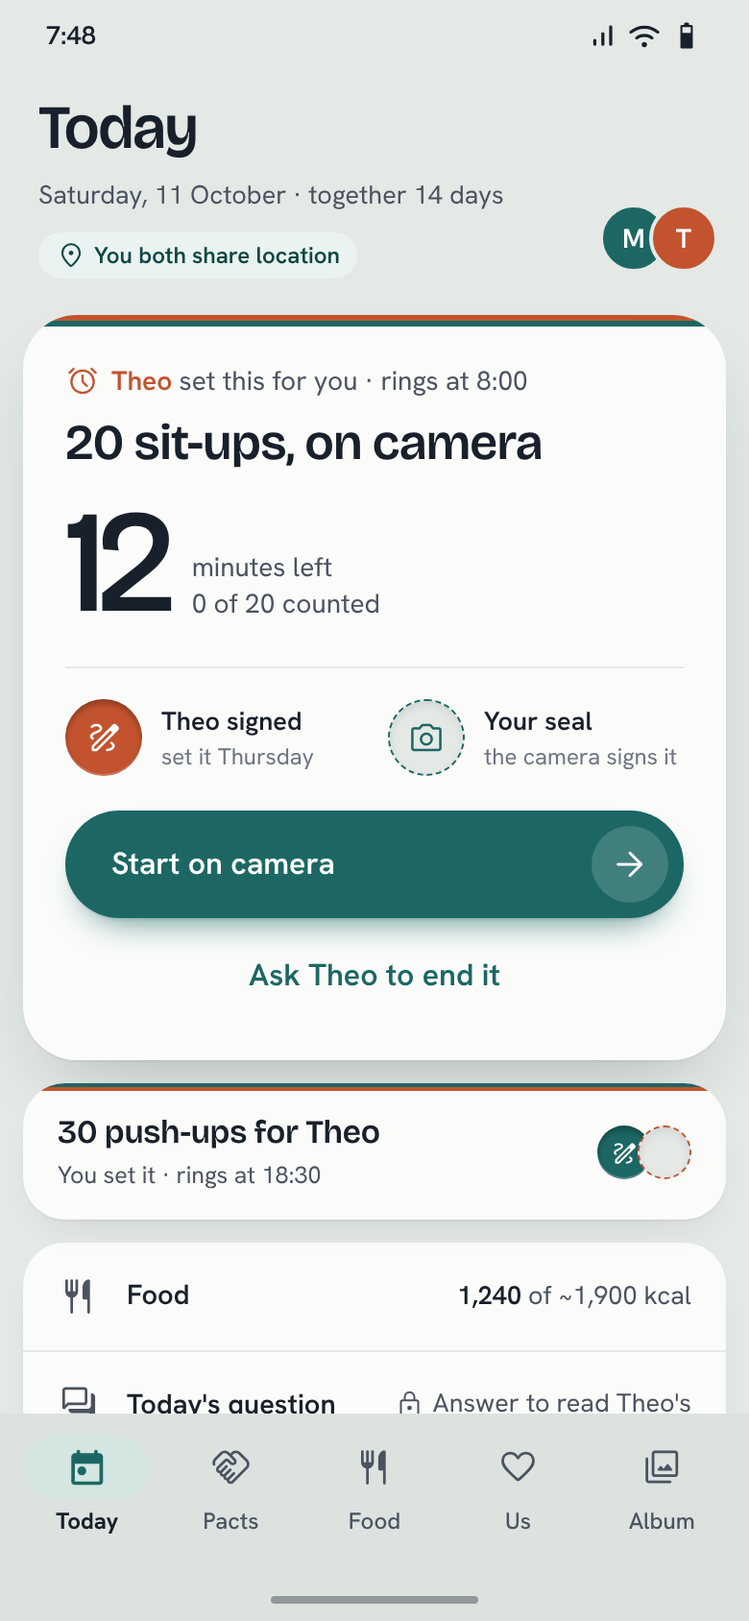
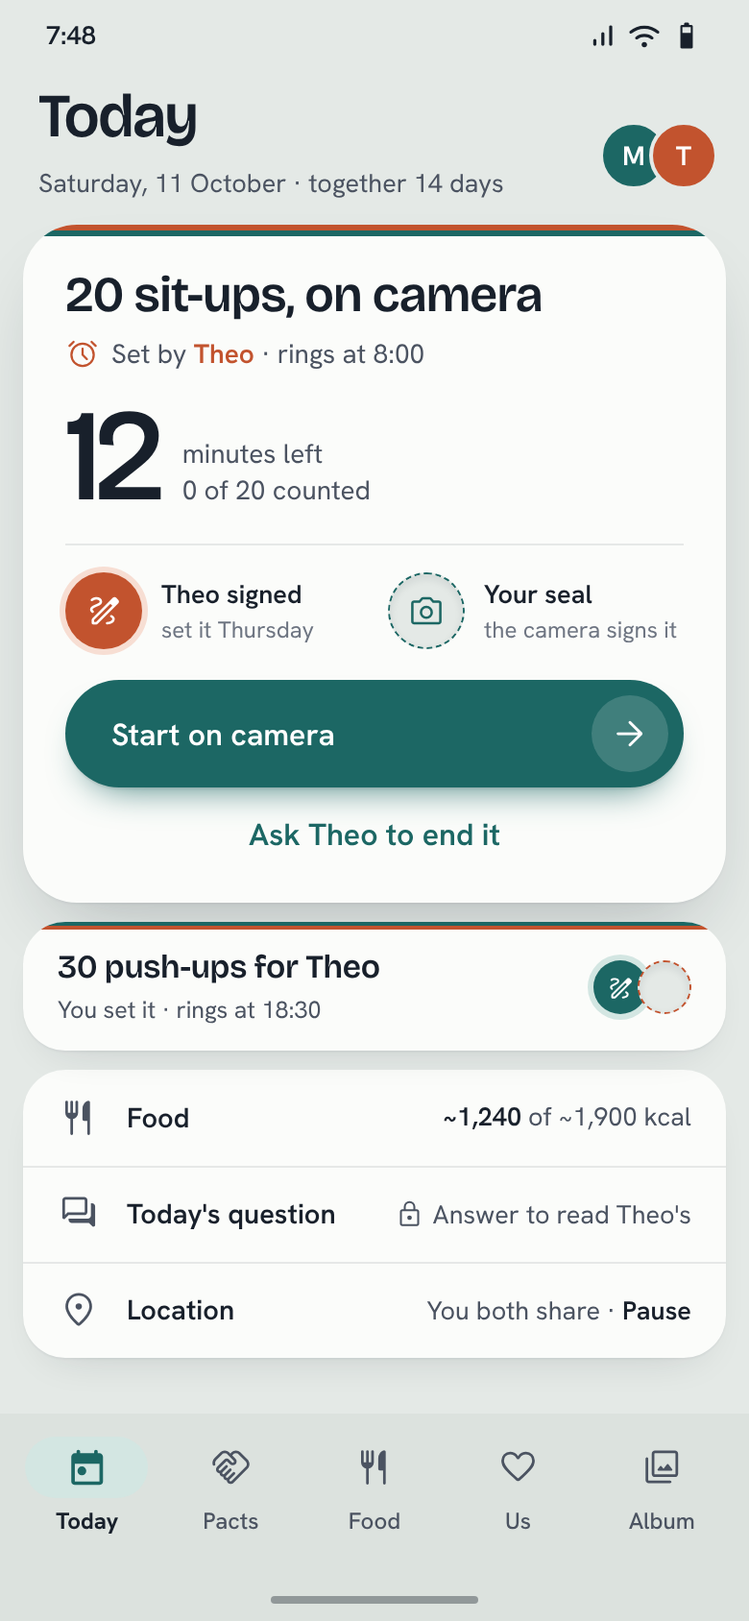
Apply the finish review's fixes to the Heartpact screens
Today fits the whole day above the nav again (location back as a row,
measured), pact labels moved below their titles, the alarm keeps the
duplex pact card, one day-per-mark history strip with one state
language (solid sealed, hollow missed, struck ended, dashed scheduled)
on Pacts and Sealed, cycle drawn in Maya's own stock, calorie totals
marked as estimates, flat seals with a tonal ring plus a press-motion
frame, looser display tracking, and the persimmon value recorded with
its contrast reason in the direction contract.

Claude-Session: https://claude.ai/code/session_01JQgGJKj4npsEDXdNrsNSqP

Changed region(s): [[0.0308, 0.0616, 0.9846, 0.8934]]

diff --git a/design/heartpact-v2/screens/09-pacts.html b/design/heartpact-v2/screens/09-pacts.html
@@ -3,30 +3,25 @@
   <div class="largebar"><div><div class="headline-l">Pacts</div><div class="sub">What you've promised each other</div></div></div>
   <div style="padding:0 12px"><div class="seg"><div class="on"><span class="ms s18">check</span>For you</div><div>You set</div></div></div>
   <div class="pact by-theo" style="margin:14px 12px 0"><div class="in" style="padding:20px 20px 18px">
-    <div style="display:flex;justify-content:space-between;align-items:flex-start"><div><div class="title-l">20 sit-ups</div><div class="body-s muted" style="margin-top:3px">Daily at 8:00 · set by Theo · 30 min ring</div></div><span class="tag maya">Sealed today</span></div>
-    <div style="display:flex;justify-content:space-between;align-items:flex-end;margin-top:18px;height:34px;border-bottom:1px solid var(--rule)">
-      <i style="--h:28px"></i><i style="--h:28px"></i><i class="x"></i><i style="--h:28px"></i><i style="--h:28px"></i><i class="m"></i><i style="--h:28px"></i><i style="--h:28px"></i><i style="--h:28px"></i><i style="--h:28px"></i><i style="--h:28px"></i><i style="--h:28px"></i><i style="--h:28px"></i><i style="--h:28px" class="now"></i>
+    <div style="display:flex;justify-content:space-between;align-items:flex-start"><div><div class="title-l">20 sit-ups</div><div class="body-s muted" style="margin-top:3px">Daily at 8:00 · set by Theo · rings up to 30 min</div></div><span class="tag maya">Sealed today</span></div>
+    <div class="days" style="margin-top:18px">
+      <i class="sealed"></i><i class="sealed"></i><i class="sealed"></i><i class="missed"></i><i class="sealed"></i><i class="ended"></i><i class="sealed"></i><i class="sealed"></i><i class="sealed"></i><i class="sealed"></i><i class="sealed"></i><i class="sealed"></i><i class="sealed today"></i><i class="planned"></i>
     </div>
-    <div style="display:flex;justify-content:space-between;margin-top:6px" class="body-s faint"><span>28 Sep</span><span>Today</span></div>
+    <div style="display:flex;justify-content:space-between;margin-top:6px" class="body-s faint"><span>29 Sep</span><span>Today</span><span>12 Oct</span></div>
   </div></div>
   <div class="pact slim by-theo" style="margin:12px 12px 0"><div class="in">
     <div style="display:flex;justify-content:space-between;align-items:flex-start"><div><div class="title-l" style="font-size:17px">Plank, 60 seconds</div><div class="body-s muted" style="margin-top:3px">Sundays at 9:30 · set by Theo</div></div><span class="tag">Tomorrow</span></div>
-    <div style="display:flex;justify-content:space-between;align-items:flex-end;margin-top:14px;height:34px;border-bottom:1px solid var(--rule)">
-      <i style="--h:28px"></i><i class="m"></i><i style="--h:28px"></i><i style="--h:28px"></i><i class="p"></i>
+    <div class="days" style="margin-top:14px">
+      <i class="off"></i><i class="off"></i><i class="off"></i><i class="off"></i><i class="off"></i><i class="off"></i><i class="sealed"></i><i class="off"></i><i class="off"></i><i class="off"></i><i class="off"></i><i class="off"></i><i class="off"></i><i class="planned"></i>
     </div>
-    <div style="display:flex;justify-content:space-between;margin-top:6px" class="body-s faint"><span>14 Sep</span><span>12 Oct</span></div>
+    <div style="display:flex;justify-content:space-between;margin-top:6px" class="body-s faint"><span>29 Sep</span><span>Today</span><span>12 Oct</span></div>
   </div></div>
-  <div style="display:flex;gap:16px;padding:14px 22px 0" class="body-s muted">
-    <span style="display:flex;align-items:center;gap:6px"><b style="width:3px;height:14px;background:var(--maya);border-radius:2px"></b>sealed</span>
-    <span style="display:flex;align-items:center;gap:6px"><b style="width:3px;height:14px;border-left:3px dashed var(--ink-3)"></b>missed</span>
-    <span style="display:flex;align-items:center;gap:6px"><b style="width:3px;height:7px;background:var(--ink-4);border-radius:2px"></b>ended together</span>
+  <div class="legend body-s muted" style="padding:14px 22px 0">
+    <span><i style="background:var(--maya)"></i>sealed</span>
+    <span><i style="border:1.5px solid var(--ink-3)"></i>missed</span>
+    <span><i class="days-ended" style="border:1.5px solid var(--ink-4)"></i>ended together</span>
+    <span><i style="border:1.5px dashed var(--maya)"></i>scheduled</span>
   </div>
 </div>
 <div class="fab act-maya" style="bottom:126px"><span class="ms">add</span>New pact for Theo</div>
-<style>
-.pact i{width:4px;height:var(--h,28px);border-radius:2px;background:var(--maya);display:block}
-.pact i.m{background:none;border-left:3px dashed var(--ink-3);height:28px;width:3px;border-radius:0}
-.pact i.x{background:var(--ink-4);height:12px}
-.pact i.p{background:none;border:1.5px dashed var(--maya);height:28px}
-.pact i.now{box-shadow:0 0 0 3px var(--maya-soft)}
-</style>
+<style>.legend .days-ended::after{content:"";position:absolute;left:-3px;right:-3px;top:6px;height:1.5px;background:var(--ink-3);transform:rotate(-30deg)}</style>

diff --git a/design/heartpact-v2/styles.css b/design/heartpact-v2/styles.css
@@ -20,7 +20,6 @@
   --lift-1:0 1px 1px rgba(24,32,43,.04),0 10px 24px -16px rgba(24,32,43,.24);
   --lift-2:0 1px 1px rgba(24,32,43,.04),0 18px 40px -18px rgba(24,32,43,.30);
   --lift-3:0 2px 4px rgba(24,32,43,.06),0 28px 60px -20px rgba(24,32,43,.38);
-  --press:inset 0 2px 3px rgba(0,0,0,.28),inset 0 -1px 0 rgba(255,255,255,.22);
   --well:inset 0 2px 4px rgba(24,32,43,.09);
   --ease:cubic-bezier(.2,.8,.2,1);
 }
@@ -52,8 +51,8 @@ body{background:var(--ground);color:var(--ink);font:400 15px/1.45 'Hanken Grotes
 .ms.s16{font-size:16px}.ms.s18{font-size:18px}.ms.s20{font-size:20px}.ms.s28{font-size:28px}
 
 /* Type roles (Material scale, brand faces) */
-.display-l{font:500 76px/.86 'Bricolage Grotesque';letter-spacing:-.045em;font-variation-settings:'opsz' 96}
-.display-m{font:500 56px/.9 'Bricolage Grotesque';letter-spacing:-.035em;font-variation-settings:'opsz' 96}
+.display-l{font:500 76px/.86 'Bricolage Grotesque';letter-spacing:-.04em;font-variation-settings:'opsz' 96}
+.display-m{font:500 56px/.92 'Bricolage Grotesque';letter-spacing:-.03em;font-variation-settings:'opsz' 96}
 .headline-l{font:600 32px/1.05 'Bricolage Grotesque';letter-spacing:-.02em;font-variation-settings:'opsz' 72}
 .headline-m{font:600 26px/1.12 'Bricolage Grotesque';letter-spacing:-.015em;font-variation-settings:'opsz' 48}
 .title-l{font:600 20px/1.2 'Bricolage Grotesque';letter-spacing:-.01em;font-variation-settings:'opsz' 32}
@@ -106,8 +105,9 @@ body{background:var(--ground);color:var(--ink);font:400 15px/1.45 'Hanken Grotes
 
 /* Seals: pressed solid when signed, dashed when pending, struck when ended */
 .seal{width:40px;height:40px;border-radius:50%;display:grid;place-items:center;flex:none;position:relative}
-.seal.signed{color:#fff;box-shadow:var(--press)}
-.seal.signed.maya{background:var(--maya)}.seal.signed.theo{background:var(--theo)}
+/* Signed: a flat fill in the signer's stock inside a tonal ring. The deboss lives in the press motion, not a painted bevel. */
+.seal.signed{color:#fff;box-shadow:0 0 0 3px var(--ring,transparent)}
+.seal.signed.maya{background:var(--maya);--ring:var(--maya-soft)}.seal.signed.theo{background:var(--theo);--ring:var(--theo-soft)}
 .seal.pending{background:var(--ground);box-shadow:var(--well);border:1.5px dashed currentColor}
 .seal.pending.maya{color:var(--maya)}.seal.pending.theo{color:var(--theo)}
 .seal.struck{background:var(--paper-2);color:var(--ink-3);border:1.5px solid var(--rule-2)}
@@ -117,7 +117,20 @@ body{background:var(--ground);color:var(--ink);font:400 15px/1.45 'Hanken Grotes
 .seals{display:flex;gap:14px}
 .sealrow{display:flex;align-items:center;gap:10px;flex:1;min-width:0}
 .sealrow .l{font:600 13.5px/1.25 'Hanken Grotesk'}.sealrow small{display:block;font-size:12px;color:var(--ink-3);line-height:1.3}
-.pair{display:flex}.pair .seal+.seal{margin-left:-7px}
+.pair{display:flex}.pair .seal+.seal{margin-left:-5px}
+/* History strip: one mark per day on one baseline at one scale, in every history view */
+.days{display:flex;justify-content:space-between;align-items:flex-end;height:30px;border-bottom:1px solid var(--rule)}
+.days i{width:5px;height:26px;border-radius:2.5px;display:block;position:relative}
+.days i.sealed{background:var(--doer,var(--maya))}
+.days i.missed{border:1.5px solid var(--ink-3)}
+.days i.ended{border:1.5px solid var(--ink-4)}
+.days i.ended::after{content:"";position:absolute;left:-4px;right:-4px;top:11px;height:1.5px;background:var(--ink-3);transform:rotate(-30deg)}
+.days i.planned{border:1.5px dashed var(--doer,var(--maya))}
+.days i.off{width:5px;height:5px;border-radius:50%;background:var(--ink-4);opacity:.5}
+.days i.today{box-shadow:0 0 0 3px var(--maya-soft)}
+.legend{display:flex;flex-wrap:wrap;gap:6px 14px}
+.legend span{display:flex;align-items:center;gap:6px}
+.legend i{width:5px;height:14px;border-radius:2.5px;display:block;position:relative}
 
 /* Buttons (Material 3 roles, pill shape, actor's stock) */
 .btn{height:56px;border-radius:28px;display:flex;align-items:center;justify-content:center;gap:10px;padding:0 24px;font:600 16px 'Hanken Grotesk';white-space:nowrap}
@@ -189,7 +202,7 @@ body{background:var(--ground);color:var(--ink);font:400 15px/1.45 'Hanken Grotes
 
 /* Misc */
 .hair{height:1px;background:var(--rule)}
-.tag{display:inline-flex;align-items:center;gap:4px;height:24px;padding:0 9px;border-radius:12px;font:600 12px 'Hanken Grotesk';background:var(--ground);color:var(--ink-2)}
+.tag{display:inline-flex;align-items:center;gap:4px;white-space:nowrap;flex:none;height:24px;padding:0 9px;border-radius:12px;font:600 12px 'Hanken Grotesk';background:var(--ground);color:var(--ink-2)}
 .tag.maya{background:var(--maya-tint);color:var(--maya-ink)}.tag.theo{background:var(--theo-tint);color:var(--theo-ink)}
 .dot{width:8px;height:8px;border-radius:50%;flex:none}
 .photo{background-size:cover;background-position:center;border-radius:16px}

diff --git a/design/heartpact-v2/screens/19-today-dark.html b/design/heartpact-v2/screens/19-today-dark.html
@@ -1,38 +1,40 @@
 <!-- {"time":"7:48","tab":"today","theme":"dark"} -->
 <div class="scroll">
-  <div class="largebar">
-    <div><div class="headline-l">Today</div><div class="sub">Saturday, 11 October · together 14 days</div><div style="margin-top:10px"><span class="tag maya"><span class="ms s16">location_on</span>You both share location</span></div></div>
+  <div class="largebar" style="padding-top:8px;padding-bottom:12px">
+    <div><div class="headline-l">Today</div><div class="sub">Saturday, 11 October · together 14 days</div></div>
     <div class="duo"><div class="disc maya">M</div><div class="disc theo">T</div></div>
   </div>
 
   <div class="pact by-theo act-maya" style="margin:0 12px">
-    <div class="in">
-      <div class="body-m muted" style="display:flex;align-items:center;gap:6px"><span class="ms s18 c-theo">alarm</span><span><b class="c-theo" style="font-weight:600">Theo</b> set this for you · rings at 8:00</span></div>
-      <div class="headline-m" style="margin-top:8px">20 sit-ups, on camera</div>
-      <div style="display:flex;align-items:flex-end;gap:12px;margin-top:16px">
-        <span class="display-l">12</span>
-        <span class="body-m muted" style="padding-bottom:3px;line-height:1.35">minutes left<br>0 of 20 counted</span>
+    <div class="in" style="padding:22px 22px 14px">
+      <div class="headline-m">20 sit-ups, on camera</div>
+      <div class="body-m muted" style="display:flex;align-items:center;gap:6px;margin-top:6px"><span class="ms s18 c-theo">alarm</span><span>Set by <b class="c-theo" style="font-weight:600">Theo</b> · rings at 8:00</span></div>
+      <div style="display:flex;align-items:flex-end;gap:12px;margin-top:14px">
+        <span class="display-l" style="font-size:68px">12</span>
+        <span class="body-m muted" style="padding-bottom:2px;line-height:1.35">minutes left<br>0 of 20 counted</span>
       </div>
-      <div class="seals" style="margin-top:20px;padding-top:16px;border-top:1px solid var(--rule)">
+      <div class="seals" style="margin-top:16px;padding-top:14px;border-top:1px solid var(--rule)">
         <div class="sealrow"><div class="seal signed theo"><span class="ms s20">draw</span></div><div><span class="l">Theo signed</span><small>set it Thursday</small></div></div>
         <div class="sealrow"><div class="seal pending maya"><span class="ms s20">photo_camera</span></div><div><span class="l">Your seal</span><small>the camera signs it</small></div></div>
       </div>
-      <div class="stack" style="margin-top:18px">
+      <div class="stack" style="margin-top:16px;gap:2px">
         <div class="btn filled trail">Start on camera<span class="knob"><span class="ms">arrow_forward</span></span></div>
-        <div class="btn text">Ask Theo to end it</div>
+        <div class="btn text" style="height:44px">Ask Theo to end it</div>
       </div>
     </div>
   </div>
 
-  <div class="pact slim by-maya" style="margin:12px 12px 0">
-    <div class="in" style="display:flex;align-items:center;gap:14px">
+  <div class="pact slim by-maya" style="margin:10px 12px 0">
+    <div class="in" style="display:flex;align-items:center;gap:14px;padding:14px 18px 12px">
       <div class="grow"><div class="title-l" style="font-size:17px">30 push-ups for Theo</div><div class="body-s muted" style="margin-top:3px">You set it · rings at 18:30</div></div>
       <div class="pair"><div class="seal sm signed maya"><span class="ms">draw</span></div><div class="seal sm pending theo"></div></div>
     </div>
   </div>
 
-  <div class="card" style="margin:12px 12px 0">
-    <div class="row"><span class="ms">restaurant</span><span class="k">Food</span><span class="v"><b>1,240</b> of ~1,900 kcal</span></div>
+  <div class="card today-rows" style="margin:10px 12px 0">
+    <div class="row"><span class="ms">restaurant</span><span class="k">Food</span><span class="v"><b>~1,240</b> of ~1,900 kcal</span></div>
     <div class="row"><span class="ms">forum</span><span class="k">Today's question</span><span class="v" style="display:flex;align-items:center;gap:4px"><span class="ms s16">lock</span>Answer to read Theo's</span></div>
+    <div class="row"><span class="ms">location_on</span><span class="k">Location</span><span class="v">You both share · <b class="c-maya">Pause</b></span></div>
   </div>
 </div>
+<style>.today-rows .row{min-height:50px;padding-top:6px;padding-bottom:6px}</style>

diff --git a/design/heartpact-v2/screens/03-today.html b/design/heartpact-v2/screens/03-today.html
@@ -1,38 +1,40 @@
 <!-- {"time":"7:48","tab":"today"} -->
 <div class="scroll">
-  <div class="largebar">
-    <div><div class="headline-l">Today</div><div class="sub">Saturday, 11 October · together 14 days</div><div style="margin-top:10px"><span class="tag maya"><span class="ms s16">location_on</span>You both share location</span></div></div>
+  <div class="largebar" style="padding-top:8px;padding-bottom:12px">
+    <div><div class="headline-l">Today</div><div class="sub">Saturday, 11 October · together 14 days</div></div>
     <div class="duo"><div class="disc maya">M</div><div class="disc theo">T</div></div>
   </div>
 
   <div class="pact by-theo act-maya" style="margin:0 12px">
-    <div class="in">
-      <div class="body-m muted" style="display:flex;align-items:center;gap:6px"><span class="ms s18 c-theo">alarm</span><span><b class="c-theo" style="font-weight:600">Theo</b> set this for you · rings at 8:00</span></div>
-      <div class="headline-m" style="margin-top:8px">20 sit-ups, on camera</div>
-      <div style="display:flex;align-items:flex-end;gap:12px;margin-top:16px">
-        <span class="display-l">12</span>
-        <span class="body-m muted" style="padding-bottom:3px;line-height:1.35">minutes left<br>0 of 20 counted</span>
+    <div class="in" style="padding:22px 22px 14px">
+      <div class="headline-m">20 sit-ups, on camera</div>
+      <div class="body-m muted" style="display:flex;align-items:center;gap:6px;margin-top:6px"><span class="ms s18 c-theo">alarm</span><span>Set by <b class="c-theo" style="font-weight:600">Theo</b> · rings at 8:00</span></div>
+      <div style="display:flex;align-items:flex-end;gap:12px;margin-top:14px">
+        <span class="display-l" style="font-size:68px">12</span>
+        <span class="body-m muted" style="padding-bottom:2px;line-height:1.35">minutes left<br>0 of 20 counted</span>
       </div>
-      <div class="seals" style="margin-top:20px;padding-top:16px;border-top:1px solid var(--rule)">
+      <div class="seals" style="margin-top:16px;padding-top:14px;border-top:1px solid var(--rule)">
         <div class="sealrow"><div class="seal signed theo"><span class="ms s20">draw</span></div><div><span class="l">Theo signed</span><small>set it Thursday</small></div></div>
         <div class="sealrow"><div class="seal pending maya"><span class="ms s20">photo_camera</span></div><div><span class="l">Your seal</span><small>the camera signs it</small></div></div>
       </div>
-      <div class="stack" style="margin-top:18px">
+      <div class="stack" style="margin-top:16px;gap:2px">
         <div class="btn filled trail">Start on camera<span class="knob"><span class="ms">arrow_forward</span></span></div>
-        <div class="btn text">Ask Theo to end it</div>
+        <div class="btn text" style="height:44px">Ask Theo to end it</div>
       </div>
     </div>
   </div>
 
-  <div class="pact slim by-maya" style="margin:12px 12px 0">
-    <div class="in" style="display:flex;align-items:center;gap:14px">
+  <div class="pact slim by-maya" style="margin:10px 12px 0">
+    <div class="in" style="display:flex;align-items:center;gap:14px;padding:14px 18px 12px">
       <div class="grow"><div class="title-l" style="font-size:17px">30 push-ups for Theo</div><div class="body-s muted" style="margin-top:3px">You set it · rings at 18:30</div></div>
       <div class="pair"><div class="seal sm signed maya"><span class="ms">draw</span></div><div class="seal sm pending theo"></div></div>
     </div>
   </div>
 
-  <div class="card" style="margin:12px 12px 0">
-    <div class="row"><span class="ms">restaurant</span><span class="k">Food</span><span class="v"><b>1,240</b> of ~1,900 kcal</span></div>
+  <div class="card today-rows" style="margin:10px 12px 0">
+    <div class="row"><span class="ms">restaurant</span><span class="k">Food</span><span class="v"><b>~1,240</b> of ~1,900 kcal</span></div>
     <div class="row"><span class="ms">forum</span><span class="k">Today's question</span><span class="v" style="display:flex;align-items:center;gap:4px"><span class="ms s16">lock</span>Answer to read Theo's</span></div>
+    <div class="row"><span class="ms">location_on</span><span class="k">Location</span><span class="v">You both share · <b class="c-maya">Pause</b></span></div>
   </div>
 </div>
+<style>.today-rows .row{min-height:50px;padding-top:6px;padding-bottom:6px}</style>

diff --git a/design/heartpact-v2/screens/05-alarm.html b/design/heartpact-v2/screens/05-alarm.html
@@ -1,20 +1,23 @@
 <!-- {"time":"8:00","status":"light","handle":"light","bg":"#A9441F"} -->
-<div class="scroll" style="color:#fff;padding:12px 24px 0;display:flex;flex-direction:column">
-  <div style="display:flex;align-items:center;gap:10px">
-    <div class="disc theo" style="background:#fff;color:#A9441F">T</div>
-    <div class="label-l">Theo's pact is ringing</div>
+<div class="scroll" style="color:#fff;padding:18px 20px 0;display:flex;flex-direction:column">
+  <div class="display-l" style="font-size:104px;padding-left:4px">8:00</div>
+  <div class="body-l" style="margin-top:12px;padding-left:4px;display:flex;align-items:center;gap:8px"><span class="ms s20">alarm</span>Theo's pact is ringing · until 8:30</div>
+
+  <div class="pact by-theo" style="margin-top:28px;color:var(--ink);box-shadow:0 30px 60px -24px rgba(40,10,0,.55)">
+    <div class="in" style="padding:22px 20px 18px">
+      <div class="headline-m">20 sit-ups, on camera</div>
+      <div class="body-m muted" style="margin-top:6px">0 of 20 counted · stops at 20</div>
+      <div class="seals" style="margin-top:18px;padding-top:14px;border-top:1px solid var(--rule)">
+        <div class="sealrow"><div class="seal signed theo"><span class="ms s20">draw</span></div><div><span class="l">Theo signed</span><small>Thursday</small></div></div>
+        <div class="sealrow"><div class="seal pending maya"><span class="ms s20">photo_camera</span></div><div><span class="l">Your seal</span><small>the camera signs it</small></div></div>
+      </div>
+      <div class="btn filled trail act-maya" style="margin-top:18px">Start on camera<span class="knob"><span class="ms">arrow_forward</span></span></div>
+    </div>
   </div>
-  <div class="display-l" style="font-size:112px;margin-top:56px">8:00</div>
-  <div class="headline-m" style="margin-top:14px">20 sit-ups, on camera</div>
-  <div class="body-l" style="margin-top:6px;opacity:.86">0 of 20 counted · rings until 8:30</div>
-  <div class="seals" style="margin-top:34px">
-    <div class="sealrow"><div class="seal signed" style="background:#fff;color:#A9441F"><span class="ms s20">draw</span></div><div><span class="l">Theo signed</span><small style="color:rgba(255,255,255,.78)">Thursday</small></div></div>
-    <div class="sealrow"><div class="seal" style="border:1.5px dashed #fff;color:#fff;background:rgba(0,0,0,.12)"><span class="ms s20">photo_camera</span></div><div><span class="l">Your seal</span><small style="color:rgba(255,255,255,.78)">the camera signs it</small></div></div>
-  </div>
+
   <div class="stack" style="margin-top:auto;padding-bottom:40px">
-    <div class="btn filled trail" style="--act:#fff;color:#8A3517;box-shadow:0 18px 30px -18px rgba(0,0,0,.5)">Start on camera<span class="knob" style="background:rgba(169,68,31,.12)"><span class="ms">arrow_forward</span></span></div>
-    <div class="btn" style="background:rgba(0,0,0,.16);color:#fff">Ask Theo to end it</div>
+    <div class="btn" style="background:rgba(0,0,0,.18);color:#fff">Ask Theo to end it</div>
     <div class="btn text" style="--act:#fff"><span class="ms s20">notifications_off</span>Silence on this phone</div>
-    <div class="body-s" style="text-align:center;opacity:.8;margin-top:-4px">Silencing keeps the pact open until 8:30.</div>
+    <div class="body-s" style="text-align:center;opacity:.85;margin-top:-4px">Silencing keeps the pact open until 8:30.</div>
   </div>
 </div>

diff --git a/design/heartpact-v2/screens/14-cycle.html b/design/heartpact-v2/screens/14-cycle.html
@@ -8,7 +8,7 @@
       <b class="p"></b><b class="p"></b><b class="p"></b><b class="p"></b><b class="p"></b><b></b><b></b><b></b><b></b><b></b><b class="f"></b><b class="f now"></b><b class="f"></b><b class="f"></b><b class="f"></b><b></b><b></b><b></b><b></b><b></b><b></b><b></b><b></b><b></b><b></b><b class="pp"></b><b class="pp"></b><b class="pp"></b>
     </div>
     <div style="display:flex;justify-content:space-between;margin-top:8px" class="body-s faint"><span>30 Sep</span><span>Today</span><span>27 Oct</span></div>
-    <div style="display:flex;gap:14px;margin-top:10px" class="body-s muted"><span style="display:flex;align-items:center;gap:6px"><i style="width:10px;height:10px;border-radius:3px;background:var(--theo)"></i>period</span><span style="display:flex;align-items:center;gap:6px"><i style="width:10px;height:10px;border-radius:3px;background:var(--maya-soft);border:1px solid var(--maya)"></i>fertile window, estimated</span><span style="display:flex;align-items:center;gap:6px"><i style="width:10px;height:10px;border-radius:3px;border:1.5px dashed var(--theo)"></i>predicted</span></div>
+    <div style="display:flex;gap:14px;margin-top:10px" class="body-s muted"><span style="display:flex;align-items:center;gap:6px"><i style="width:10px;height:10px;border-radius:3px;background:var(--maya)"></i>period</span><span style="display:flex;align-items:center;gap:6px"><i style="width:10px;height:10px;border-radius:3px;background:var(--maya-soft);border:1px solid var(--maya)"></i>fertile window, estimated</span><span style="display:flex;align-items:center;gap:6px"><i style="width:10px;height:10px;border-radius:3px;border:1.5px dashed var(--maya)"></i>predicted</span></div>
   </div>
   <div class="sect"><h2>Today</h2><a>More</a></div>
   <div class="pad">
@@ -22,8 +22,8 @@
 <style>
 .cal{display:grid;grid-template-columns:repeat(28,1fr);gap:3px;align-items:end;height:44px;border-bottom:1px solid var(--rule)}
 .cal b{height:14px;border-radius:3px;background:var(--ground-2)}
-.cal b.p{height:36px;background:var(--theo)}
-.cal b.f{height:24px;background:var(--maya-soft)}
-.cal b.now{background:var(--maya);height:44px}
-.cal b.pp{height:36px;background:none;border:1.5px dashed var(--theo)}
+.cal b.p{height:36px;background:var(--maya)}
+.cal b.f{height:24px;background:var(--maya-soft);box-shadow:inset 0 0 0 1px rgba(28,103,100,.35)}
+.cal b.now{background:var(--maya-soft);height:44px;box-shadow:inset 0 0 0 2px var(--maya)}
+.cal b.pp{height:36px;background:none;border:1.5px dashed var(--maya)}
 </style>

diff --git a/design/heartpact-v2/screens/07-sealed.html b/design/heartpact-v2/screens/07-sealed.html
@@ -15,12 +15,11 @@
     </div>
   </div>
   <div class="card" style="margin-top:12px;padding:18px 18px 16px">
-    <div style="display:flex;justify-content:space-between;align-items:baseline"><span class="label-l">Together 15 days</span><span class="body-s muted">this fortnight</span></div>
-    <div style="display:flex;justify-content:space-between;margin-top:14px;--d:18px">
-      <div class="seal sm signed maya" style="width:18px;height:18px"></div><div class="seal sm signed maya" style="width:18px;height:18px"></div><div class="seal sm struck" style="width:18px;height:18px"></div><div class="seal sm signed maya" style="width:18px;height:18px"></div><div class="seal sm signed maya" style="width:18px;height:18px"></div><div class="seal sm signed maya" style="width:18px;height:18px"></div><div class="seal sm signed maya" style="width:18px;height:18px"></div>
-      <div class="seal sm signed maya" style="width:18px;height:18px"></div><div class="seal sm signed maya" style="width:18px;height:18px"></div><div class="seal sm signed maya" style="width:18px;height:18px"></div><div class="seal sm signed maya" style="width:18px;height:18px"></div><div class="seal sm signed maya" style="width:18px;height:18px"></div><div class="seal sm signed maya" style="width:18px;height:18px"></div><div class="seal sm signed maya" style="width:18px;height:18px;outline:2px solid var(--maya);outline-offset:2px"></div>
+    <div style="display:flex;justify-content:space-between;align-items:baseline"><span class="label-l">Together 15 days</span><span class="body-s muted">20 sit-ups, daily</span></div>
+    <div class="days" style="margin-top:14px">
+      <i class="sealed"></i><i class="sealed"></i><i class="sealed"></i><i class="missed"></i><i class="sealed"></i><i class="ended"></i><i class="sealed"></i><i class="sealed"></i><i class="sealed"></i><i class="sealed"></i><i class="sealed"></i><i class="sealed"></i><i class="sealed today"></i><i class="planned"></i>
     </div>
-    <div style="display:flex;justify-content:space-between;margin-top:8px" class="body-s faint"><span>28 Sep</span><span>3 Oct · ended together</span><span>Today</span></div>
+    <div style="display:flex;justify-content:space-between;margin-top:6px" class="body-s faint"><span>29 Sep</span><span>Today</span><span>12 Oct</span></div>
   </div>
 </div>
 <div class="act-maya stack" style="padding:8px 20px 40px"><div class="btn filled">Set one for Theo</div><div class="btn text">Back to today</div></div>

diff --git a/design/heartpact-v2/screens/10-food.html b/design/heartpact-v2/screens/10-food.html
@@ -2,7 +2,7 @@
 <div class="scroll act-maya">
   <div class="largebar"><div><div class="headline-l">Food</div><div class="sub">Saturday · photo estimates run about ±30%</div></div></div>
   <div class="card" style="margin:0 12px;padding:20px 20px 18px">
-    <div style="display:flex;align-items:flex-end;gap:10px"><span class="display-m">1,240</span><span class="body-m muted" style="padding-bottom:4px">of ~1,900 kcal</span></div>
+    <div style="display:flex;align-items:flex-end;gap:10px"><span class="display-m">~1,240</span><span class="body-m muted" style="padding-bottom:4px">of ~1,900 kcal</span></div>
     <div style="position:relative;height:10px;border-radius:5px;background:var(--ground);margin-top:16px;box-shadow:var(--well)">
       <div style="position:absolute;left:0;top:0;bottom:0;width:65%;border-radius:5px;background:var(--maya)"></div>
       <div style="position:absolute;left:55%;width:20%;top:-4px;bottom:-4px;border-radius:9px;border:1.5px dashed var(--maya)"></div>
@@ -17,6 +17,6 @@
     <div class="row"><div class="photo" style="width:48px;height:48px;border-radius:12px;background-image:url(file:///home/user/2gether/design/heartpact-v2/assets/food-french-toast.jpg)"></div><div class="grow"><div class="k">French toast, berries</div><div class="s">Breakfast · 8:40 · from a photo</div></div><span class="v"><b>~640</b><br>540–760</span></div>
     <div class="row"><div class="photo" style="width:48px;height:48px;border-radius:12px;background-image:url(file:///home/user/2gether/design/heartpact-v2/assets/food-salad.jpg)"></div><div class="grow"><div class="k">Chickpea salad bowl</div><div class="s">Lunch · 12:50 · from a photo</div></div><span class="v"><b>~600</b><br>480–700</span></div>
   </div>
-  <div class="card" style="margin:12px 12px 0"><div class="row"><div class="disc sm theo">T</div><div class="grow"><div class="k">Theo</div><div class="s">shares daily totals only</div></div><span class="v"><b>1,610</b> kcal</span></div></div>
+  <div class="card" style="margin:12px 12px 0"><div class="row"><div class="disc sm theo">T</div><div class="grow"><div class="k">Theo</div><div class="s">shares daily totals only · estimate</div></div><span class="v"><b>~1,610</b> kcal</span></div></div>
 </div>
 <div class="fab act-maya" style="bottom:126px"><span class="ms">photo_camera</span>Snap a meal</div>

diff --git a/design/heartpact-v2/screens/20-seal-press.html b/design/heartpact-v2/screens/20-seal-press.html
@@ -1,0 +1,19 @@
+<!-- {"status":"none","handle":"none"} -->
+<div class="scroll act-maya" style="padding:28px 20px 0">
+  <div class="headline-m">Pressing a seal</div>
+  <p class="body-m muted" style="margin-top:6px">The signature moment, at 0, 110 and 220 ms. Ease-out. With Remove animations on, it cuts straight to the last frame.</p>
+  <div class="frame"><span class="t">0 ms · the camera counts 20</span>
+    <div class="pact by-theo slim"><div class="in row2"><div class="seal pending maya"><span class="ms s20">photo_camera</span></div><div><div class="l">Your seal</div><small>the camera signs it</small></div></div></div></div>
+  <div class="frame"><span class="t">110 ms · the disc sinks and takes the colour</span>
+    <div class="pact by-theo slim"><div class="in row2"><div class="seal" style="background:var(--maya);opacity:.7;color:#fff;transform:scale(.88);box-shadow:inset 0 3px 6px rgba(0,0,0,.35),0 0 0 2px var(--maya-soft)"><span class="ms s20">photo_camera</span></div><div><div class="l">Sealing</div><small>20 of 20 counted</small></div></div>
+    <div class="close" style="width:50%"></div></div></div>
+  <div class="frame"><span class="t">220 ms · signed, and the pact's lower edge closes</span>
+    <div class="pact by-theo slim"><div class="in row2"><div class="seal signed maya"><span class="ms s20">verified</span></div><div><div class="l">You signed</div><small>7:56 · Theo sees it now</small></div></div>
+    <div class="close" style="width:100%"></div></div></div>
+</div>
+<style>
+.frame{margin-top:22px}.frame .t{display:block;font:600 12.5px 'Hanken Grotesk';color:var(--ink-2);margin:0 0 8px 4px}
+.row2{display:flex;align-items:center;gap:14px}
+.row2 .l{font:600 15px 'Hanken Grotesk'}.row2 small{display:block;font-size:12.5px;color:var(--ink-3)}
+.frame .close{position:absolute;left:0;bottom:0;height:4px;background:linear-gradient(var(--maya) 0 50%,var(--theo) 50% 100%)}
+</style>

diff --git a/design/heartpact-v2/screens/06-camera.html b/design/heartpact-v2/screens/06-camera.html
@@ -16,9 +16,8 @@
   <span class="tag" style="background:rgba(14,19,27,.64);color:#fff;height:32px;padding:0 12px;border-radius:16px"><span class="disc sm theo" style="width:18px;height:18px;font-size:9px">T</span>Theo is watching</span>
 </div>
 <div style="position:absolute;right:0;top:0;bottom:0;width:180px;padding:22px 24px 22px 20px;background:#0E131B;color:#fff;display:flex;flex-direction:column;align-items:flex-end;text-align:right">
-  <div class="label-m" style="opacity:.8">Sit-ups for Theo</div>
-  <div class="display-l" style="font-size:120px;margin-top:8px;line-height:.82">14</div>
-  <div class="title-l" style="opacity:.9;margin-top:4px">of 20</div>
+    <div class="display-l" style="font-size:120px;margin-top:8px;line-height:.82">14</div>
+  <div class="title-l" style="opacity:.9;margin-top:4px">of 20 sit-ups</div><div class="body-s" style="opacity:.75;margin-top:2px">for Theo's pact</div>
   <div class="body-s" style="margin-top:10px;opacity:.85;max-width:140px">Come all the way up. Elbows to knees counts.</div>
   <div style="display:flex;gap:12px;margin-top:auto">
     <div class="iconbtn" style="width:56px;height:56px;border-radius:28px;background:rgba(255,255,255,.14);color:#fff"><span class="ms">flip_camera_android</span></div>

diff --git a/design/heartpact-v2/screens/17-album.html b/design/heartpact-v2/screens/17-album.html
@@ -3,7 +3,7 @@
   <div class="largebar"><div><div class="headline-l">Album</div><div class="sub">214 photos · 1.2 of 2 GB</div></div><div class="iconbtn"><span class="ms">search</span></div></div>
   <div style="margin:0 12px;height:200px;border-radius:24px;position:relative;overflow:hidden;background:url(file:///home/user/2gether/design/heartpact-v2/assets/album-boat.jpg) center/cover;box-shadow:var(--lift-2)">
     <div style="position:absolute;inset:auto 0 0 0;padding:40px 18px 16px;background:linear-gradient(rgba(14,19,27,0),rgba(14,19,27,.7));color:#fff">
-      <div class="label-m" style="opacity:.85">One year ago today</div><div class="title-l" style="margin-top:2px">The lake weekend</div>
+      <div class="title-l">The lake weekend</div><div class="body-s" style="margin-top:2px;opacity:.88">One year ago today</div>
     </div>
   </div>
   <div class="sect"><h2>October</h2><a>Select</a></div>

diff --git a/design/heartpact-v2/screens/08-end-together.html b/design/heartpact-v2/screens/08-end-together.html
@@ -2,7 +2,7 @@
 <div class="scroll">
   <div class="largebar"><div><div class="headline-l">Today</div><div class="sub">Saturday, 11 October · together 14 days</div></div>
     <div class="duo"><div class="disc theo">T</div><div class="disc maya">M</div></div></div>
-  <div class="pact by-theo" style="margin:0 12px"><div class="in"><div class="body-m muted">You set this for Maya</div><div class="headline-m" style="margin-top:6px">20 sit-ups, on camera</div><div class="display-l" style="margin-top:14px">23</div></div></div>
+  <div class="pact by-theo" style="margin:0 12px"><div class="in"><div class="headline-m">20 sit-ups, on camera</div><div class="body-m muted" style="margin-top:6px">You set this for Maya · rings until 8:30</div><div class="display-l" style="margin-top:14px">23</div></div></div>
 </div>
 <div class="scrim"></div>
 <div class="bsheet act-theo">
